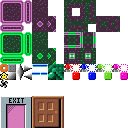
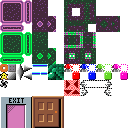
implement one-way blocks

Changed region(s): [[0.5, 0.625, 0.875, 0.75]]

diff --git a/assets/purple.tsx b/assets/purple.tsx
@@ -159,6 +159,66 @@
    <property name="spiral" type="bool" value="true"/>
   </properties>
  </tile>
+ <tile id="168">
+  <properties>
+   <property name="oneway" value="E"/>
+  </properties>
+ </tile>
+ <tile id="169">
+  <properties>
+   <property name="oneway" value="W"/>
+  </properties>
+ </tile>
+ <tile id="170">
+  <properties>
+   <property name="convey" value="E"/>
+  </properties>
+ </tile>
+ <tile id="171">
+  <properties>
+   <property name="convey" value="E"/>
+  </properties>
+ </tile>
+ <tile id="172">
+  <properties>
+   <property name="convey" value="W"/>
+  </properties>
+ </tile>
+ <tile id="173">
+  <properties>
+   <property name="convey" value="W"/>
+  </properties>
+ </tile>
+ <tile id="184">
+  <properties>
+   <property name="oneway" value="S"/>
+  </properties>
+ </tile>
+ <tile id="185">
+  <properties>
+   <property name="oneway" value="N"/>
+  </properties>
+ </tile>
+ <tile id="186">
+  <properties>
+   <property name="convey" value="E"/>
+  </properties>
+ </tile>
+ <tile id="187">
+  <properties>
+   <property name="convey" value="E"/>
+  </properties>
+ </tile>
+ <tile id="188">
+  <properties>
+   <property name="convey" value="W"/>
+  </properties>
+ </tile>
+ <tile id="189">
+  <properties>
+   <property name="convey" value="W"/>
+  </properties>
+ </tile>
  <tile id="192">
   <properties>
    <property name="door" type="bool" value="true"/>

diff --git a/tilemap.py b/tilemap.py
@@ -259,6 +259,21 @@ class TileMap:
             self.tilewidth,
             self.tileheight)
 
+    def is_solid_in_direction(self, tile_id: int, direction: Direction) -> bool:
+        oneway = self.tileset.get_str_property(tile_id, 'oneway')
+        if oneway is None:
+            return True
+        match direction:
+            case Direction.UP:
+                return oneway == 'S'
+            case Direction.DOWN:
+                return oneway == 'N'
+            case Direction.RIGHT:
+                return oneway == 'W'
+            case Direction.LEFT:
+                return oneway == 'E'
+        raise Exception('unexpection direction')
+
     class MoveResult:
         offset_sub: int = 0
         tile_ids: set[int]
@@ -309,6 +324,8 @@ class TileMap:
                             # Use an alt tile instead of the original.
                             index = alt
                         if not self.tileset.get_bool_property(index, 'solid', True):
+                            continue
+                        if not self.is_solid_in_direction(index, direction):
                             continue
                         offset = try_move_to_bounds(
                             bounds, tile_bounds, direction)

diff --git a/README.md b/README.md
@@ -5,3 +5,6 @@ purpy
 * `pip3 install pygame`
 * `pip3 install pyopengl`
 * `pip3 install numpy`
+
+## Running
+* `python3 main.py`
